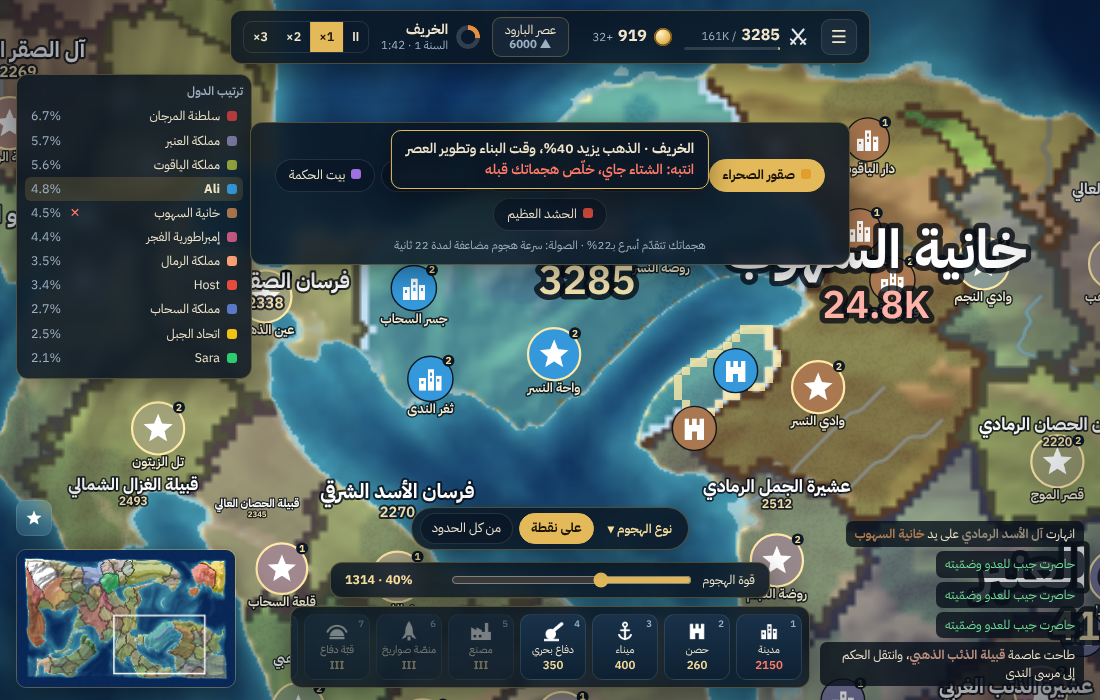
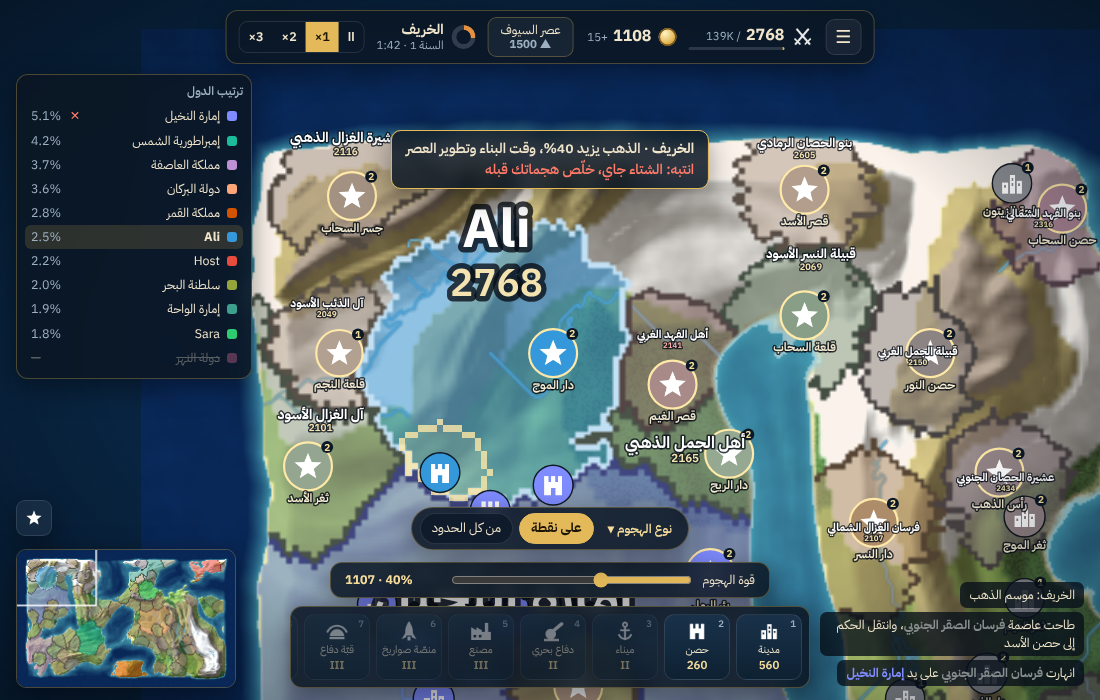
Bigger maps (about 30%) with more land on every world type
Claude-Session: https://claude.ai/code/session_01DE77Q6PVtjTWn3qCBTcsws

diff --git a/dist/sijal-mobile.html b/dist/sijal-mobile.html
@@ -400,7 +400,7 @@ h3{font-size:13px;color:var(--dim);font-weight:600;margin-bottom:6px}
 </div>
 <script>
 window.SIJAL_MODE='mobile';(function(){"use strict";
-const BUILD_ID='6b71f780f7';
+const BUILD_ID='554911884e';
 // ── SIJAL · core: constants, utilities, shared data ──
 const TPS=10,SEASON_LEN=450;
 // terrain ids: 0 deep, 1 shallow, 2 plains, 3 forest, 4 desert, 5 hills, 6 mountain, 7 snow
@@ -486,7 +486,7 @@ function genMap(o){
     if(T==='highlands')e=Math.abs(e)*1.25+fbm(u*6+3,v*6+9,4)*.25;else if(T==='flat')e*=.3;
     elev[i]=T==='flat'||T==='highlands'?e:e-(1-smooth(0,.09,ed))*1.5;moist[i]=fb2(u*3+40,v*3+17,4);
   }
-  const ratio={continents:.47,pangaea:.52,islands:.34,inner:.46,twin:.46,shores:.46,crescent:.4,straits:.5,lakes:.7,flat:1,highlands:1}[T]||.45;
+  const ratio={continents:.54,pangaea:.6,islands:.42,inner:.53,twin:.53,shores:.53,crescent:.47,straits:.56,lakes:.75,flat:1,highlands:1}[T]||.45;
   const srt=Float32Array.from(elev).sort(),L0=Math.min(N-1,Math.floor(N*(1-ratio))),sea=srt[L0]-(ratio>=1?1e-6:0),LN=N-L0;
   // no-sea worlds: flat ground has no hills at all; highlands are half hills, a fifth peaks
   const HQ=T==='flat'?[2,2]:T==='highlands'?[.55,.88]:[.74,.9],hHill=srt[Math.min(N-1,L0+Math.floor(LN*HQ[0]))]-sea+(T==='flat'?1e9:0),hMnt=srt[Math.min(N-1,L0+Math.floor(LN*HQ[1]))]-sea+(T==='flat'?1e9:0),hmax=srt[N-1]-sea;
@@ -1855,7 +1855,7 @@ TX.en.help[8]=['The road to victory','Hold 99% of the world\'s land. Every realm
 TX.en.dInfo[2]=['Goal: the fastest win','Hold 99% of the land as fast as you can. Your best time today is saved; try to beat it.'];
 // update log: newest first, the game shows at most ten entries
 const LOG=[
- {v:'3.5',d:'2026-11-19',ar:['⚖ توازن جديد للعبة: الجنود يزيدون بشكل واقعي (حوالي 30 ألف بعد دقيقتين بدل ما توصل مليون)، والقيم يطول 15 لين 25 دقيقة','💰 المباني صارت أغلى: كل مبنى جديد من نفس النوع أغلى من اللي قبله بحوالي 40٪، والعصور أغلى','🏙 المدن المحايدة في الخرائط صارت أقل، وأيقونات المدن والمباني صارت أكبر بكثير','🛡 دائرة الحصن والقبة والدفاع البحري صارت ما تتعدى حدودك، ولها خط واضح على طرفها','🤝 علامة التحالف تطلع جنب اسم أي دولة متحالف معها','📏 مدى كل المباني صار أكبر، والمسافة بين المباني أكبر عشان ما تتراكب، وأرضك أول ما تبدأ صارت تقريباً 3 أضعاف','🏕 القبائل الصغيرة صارت تهجم على طول بكل جنودها وتخلي 2000 بس، فتكبر بسرعة من أول القيم'],en:['⚖ New balance: troops grow realistically (about 30K after two minutes instead of reaching a million), and a match lasts 15 to 25 minutes','💰 Buildings cost more: each new one of a kind costs about 40% more than the last, and ages cost more','🏙 Fewer neutral cities on the maps, and bigger city and building icons','🛡 Fort, dome and coastal gun areas stop at your border, with a clear outline on their edge','🤝 A handshake shows next to the name of every realm you are allied with','📏 Every building has a larger range, buildings sit further apart so they do not overlap, and your starting land is about three times bigger','🏕 Small tribes now attack right away with everything above a 2000-man reserve, so they grow fast from the start']},
+ {v:'3.5',d:'2026-11-19',ar:['⚖ توازن جديد للعبة: الجنود يزيدون بشكل واقعي (حوالي 30 ألف بعد دقيقتين بدل ما توصل مليون)، والقيم يطول 15 لين 25 دقيقة','💰 المباني صارت أغلى: كل مبنى جديد من نفس النوع أغلى من اللي قبله بحوالي 40٪، والعصور أغلى','🏙 المدن المحايدة في الخرائط صارت أقل، وأيقونات المدن والمباني صارت أكبر بكثير','🛡 دائرة الحصن والقبة والدفاع البحري صارت ما تتعدى حدودك، ولها خط واضح على طرفها','🤝 علامة التحالف تطلع جنب اسم أي دولة متحالف معها','🗺 كل الخرائط صارت أكبر بحوالي 30٪ والبحر أقل','📏 مدى كل المباني صار أكبر، والمسافة بين المباني أكبر عشان ما تتراكب، وأرضك أول ما تبدأ صارت تقريباً 3 أضعاف','🏕 القبائل الصغيرة صارت تهجم على طول بكل جنودها وتخلي 2000 بس، فتكبر بسرعة من أول القيم'],en:['⚖ New balance: troops grow realistically (about 30K after two minutes instead of reaching a million), and a match lasts 15 to 25 minutes','💰 Buildings cost more: each new one of a kind costs about 40% more than the last, and ages cost more','🏙 Fewer neutral cities on the maps, and bigger city and building icons','🛡 Fort, dome and coastal gun areas stop at your border, with a clear outline on their edge','🤝 A handshake shows next to the name of every realm you are allied with','🗺 Every map is about 30% bigger with less sea','📏 Every building has a larger range, buildings sit further apart so they do not overlap, and your starting land is about three times bigger','🏕 Small tribes now attack right away with everything above a 2000-man reserve, so they grow fast from the start']},
  {v:'3.4',d:'2026-11-19',ar:['🔢 رقم الجنود صار يمشي ورا خط الهجوم ويتحرك مع الجبهة كاملة، يميل مع الحدود ويكبر لما الجبهة تكبر','🌾 رقم الجنود ما يطلع لما تهجم على أرض فاضية، بس لما تهجم على دولة'],en:['🔢 The troop count now rides behind the attack line and moves with the whole front, tilting along the border and growing with it','🌾 No troop count when you attack empty land, only against realms']},
  {v:'3.3',d:'2026-11-19',ar:['🟢 أي أرض فاضية تحاصرها بأرضك من كل الجهات تنضم لك تلقائياً مهما كان حجمها، وتتعبّى من الأطراف للنص بأنميشن','🎯 القائمة الدائرية صارت أوضح وأجمل: تحت كل زر كلمة تشرحه (هجوم، بحري، البطاقة، صواريخ، كل الحدود)','🖱 كلك يمين في الكمبيوتر ما يطلّع قائمة المتصفح فوق الدائرة','🗡 السيفين لما تقضي على دولة صاروا أصغر'],en:['🟢 Any empty land you ring on every side joins you automatically whatever its size, filling from the edges inward','🎯 A clearer, nicer radial menu: a word under each button (Attack, By sea, Card, Missiles, All borders)','🖱 Right click on PC no longer opens the browser menu over the circle','🗡 Smaller crossed swords when you wipe out a realm']},
  {v:'3.2',d:'2026-11-19',ar:['😡 البوتات الكبار صارت ترد عليك بإيموجي: لو هجمت عليها أو غدرت فيها أو أنهيت تحالف كانت تبيه، ولو رفضت لأنها ما تثق فيك، ولو أهديتها ذهب','💬 أسباب رفض السلام والتحالف صارت كثيرة وواقعية وتتغير كل مرة','🏗 كل المباني تنبني خلال 6 ثواني بدل 10','🔢 رقم جنود العدو على حدودك صار ثابت مثل رقمك','🎮 قائمة الجرافيكس توضح وش ضحّينا فيه بالمنخفض عشان السلاسة، ووش أضفنا بالعالي، والفصول باقية في كل المستويات'],en:['😡 Big bots now answer you with emojis: when you attack or betray them, end an alliance they wanted, refuse you for lack of trust, or receive your gold','💬 Many varied, realistic reasons when peace or alliance is refused','🏗 Every building finishes in 6 seconds instead of 10','🔢 The enemy troop count on your border is now as steady as yours','🎮 The graphics menu explains what Low gives up for smoothness and what High adds']},
@@ -2093,7 +2093,7 @@ let G=null,acc=0,lastTs=0;
 // online leaderboard (Firebase Realtime Database + anonymous sign-in); empty = turned off
 const LB_DB='https://sijal-fa367-default-rtdb.firebaseio.com',LB_KEY='AIzaSyABuacot7I8S6r-7bsTHbYgMWhQC7OHXi4';
 const SUGGEST_KEY='137b52a0-fd63-4170-99f2-83a421aef9f4';
-const $=s=>document.querySelector(s),BAR=['city','fort','port','coast','factory','silo','shield','rocket','nuke','doom','ult'],rankOf=p=>p.wins<=0?0:Math.min(21,Math.ceil(p.wins/25)),SIZES=[[320,200],[420,264],[540,340],[680,428]],BOTS=[6,10,14,18,23];
+const $=s=>document.querySelector(s),BAR=['city','fort','port','coast','factory','silo','shield','rocket','nuke','doom','ult'],rankOf=p=>p.wins<=0?0:Math.min(21,Math.ceil(p.wins/25)),SIZES=[[420,264],[540,340],[680,428],[840,528]],BOTS=[6,10,14,18,23];
 
 // ── profile (per-device convenience only) ──
 function loadProf(){

diff --git a/dist/sijal-pc.html b/dist/sijal-pc.html
@@ -400,7 +400,7 @@ h3{font-size:13px;color:var(--dim);font-weight:600;margin-bottom:6px}
 </div>
 <script>
 window.SIJAL_MODE='pc';(function(){"use strict";
-const BUILD_ID='6b71f780f7';
+const BUILD_ID='554911884e';
 // ── SIJAL · core: constants, utilities, shared data ──
 const TPS=10,SEASON_LEN=450;
 // terrain ids: 0 deep, 1 shallow, 2 plains, 3 forest, 4 desert, 5 hills, 6 mountain, 7 snow
@@ -486,7 +486,7 @@ function genMap(o){
     if(T==='highlands')e=Math.abs(e)*1.25+fbm(u*6+3,v*6+9,4)*.25;else if(T==='flat')e*=.3;
     elev[i]=T==='flat'||T==='highlands'?e:e-(1-smooth(0,.09,ed))*1.5;moist[i]=fb2(u*3+40,v*3+17,4);
   }
-  const ratio={continents:.47,pangaea:.52,islands:.34,inner:.46,twin:.46,shores:.46,crescent:.4,straits:.5,lakes:.7,flat:1,highlands:1}[T]||.45;
+  const ratio={continents:.54,pangaea:.6,islands:.42,inner:.53,twin:.53,shores:.53,crescent:.47,straits:.56,lakes:.75,flat:1,highlands:1}[T]||.45;
   const srt=Float32Array.from(elev).sort(),L0=Math.min(N-1,Math.floor(N*(1-ratio))),sea=srt[L0]-(ratio>=1?1e-6:0),LN=N-L0;
   // no-sea worlds: flat ground has no hills at all; highlands are half hills, a fifth peaks
   const HQ=T==='flat'?[2,2]:T==='highlands'?[.55,.88]:[.74,.9],hHill=srt[Math.min(N-1,L0+Math.floor(LN*HQ[0]))]-sea+(T==='flat'?1e9:0),hMnt=srt[Math.min(N-1,L0+Math.floor(LN*HQ[1]))]-sea+(T==='flat'?1e9:0),hmax=srt[N-1]-sea;
@@ -1855,7 +1855,7 @@ TX.en.help[8]=['The road to victory','Hold 99% of the world\'s land. Every realm
 TX.en.dInfo[2]=['Goal: the fastest win','Hold 99% of the land as fast as you can. Your best time today is saved; try to beat it.'];
 // update log: newest first, the game shows at most ten entries
 const LOG=[
- {v:'3.5',d:'2026-11-19',ar:['⚖ توازن جديد للعبة: الجنود يزيدون بشكل واقعي (حوالي 30 ألف بعد دقيقتين بدل ما توصل مليون)، والقيم يطول 15 لين 25 دقيقة','💰 المباني صارت أغلى: كل مبنى جديد من نفس النوع أغلى من اللي قبله بحوالي 40٪، والعصور أغلى','🏙 المدن المحايدة في الخرائط صارت أقل، وأيقونات المدن والمباني صارت أكبر بكثير','🛡 دائرة الحصن والقبة والدفاع البحري صارت ما تتعدى حدودك، ولها خط واضح على طرفها','🤝 علامة التحالف تطلع جنب اسم أي دولة متحالف معها','📏 مدى كل المباني صار أكبر، والمسافة بين المباني أكبر عشان ما تتراكب، وأرضك أول ما تبدأ صارت تقريباً 3 أضعاف','🏕 القبائل الصغيرة صارت تهجم على طول بكل جنودها وتخلي 2000 بس، فتكبر بسرعة من أول القيم'],en:['⚖ New balance: troops grow realistically (about 30K after two minutes instead of reaching a million), and a match lasts 15 to 25 minutes','💰 Buildings cost more: each new one of a kind costs about 40% more than the last, and ages cost more','🏙 Fewer neutral cities on the maps, and bigger city and building icons','🛡 Fort, dome and coastal gun areas stop at your border, with a clear outline on their edge','🤝 A handshake shows next to the name of every realm you are allied with','📏 Every building has a larger range, buildings sit further apart so they do not overlap, and your starting land is about three times bigger','🏕 Small tribes now attack right away with everything above a 2000-man reserve, so they grow fast from the start']},
+ {v:'3.5',d:'2026-11-19',ar:['⚖ توازن جديد للعبة: الجنود يزيدون بشكل واقعي (حوالي 30 ألف بعد دقيقتين بدل ما توصل مليون)، والقيم يطول 15 لين 25 دقيقة','💰 المباني صارت أغلى: كل مبنى جديد من نفس النوع أغلى من اللي قبله بحوالي 40٪، والعصور أغلى','🏙 المدن المحايدة في الخرائط صارت أقل، وأيقونات المدن والمباني صارت أكبر بكثير','🛡 دائرة الحصن والقبة والدفاع البحري صارت ما تتعدى حدودك، ولها خط واضح على طرفها','🤝 علامة التحالف تطلع جنب اسم أي دولة متحالف معها','🗺 كل الخرائط صارت أكبر بحوالي 30٪ والبحر أقل','📏 مدى كل المباني صار أكبر، والمسافة بين المباني أكبر عشان ما تتراكب، وأرضك أول ما تبدأ صارت تقريباً 3 أضعاف','🏕 القبائل الصغيرة صارت تهجم على طول بكل جنودها وتخلي 2000 بس، فتكبر بسرعة من أول القيم'],en:['⚖ New balance: troops grow realistically (about 30K after two minutes instead of reaching a million), and a match lasts 15 to 25 minutes','💰 Buildings cost more: each new one of a kind costs about 40% more than the last, and ages cost more','🏙 Fewer neutral cities on the maps, and bigger city and building icons','🛡 Fort, dome and coastal gun areas stop at your border, with a clear outline on their edge','🤝 A handshake shows next to the name of every realm you are allied with','🗺 Every map is about 30% bigger with less sea','📏 Every building has a larger range, buildings sit further apart so they do not overlap, and your starting land is about three times bigger','🏕 Small tribes now attack right away with everything above a 2000-man reserve, so they grow fast from the start']},
  {v:'3.4',d:'2026-11-19',ar:['🔢 رقم الجنود صار يمشي ورا خط الهجوم ويتحرك مع الجبهة كاملة، يميل مع الحدود ويكبر لما الجبهة تكبر','🌾 رقم الجنود ما يطلع لما تهجم على أرض فاضية، بس لما تهجم على دولة'],en:['🔢 The troop count now rides behind the attack line and moves with the whole front, tilting along the border and growing with it','🌾 No troop count when you attack empty land, only against realms']},
  {v:'3.3',d:'2026-11-19',ar:['🟢 أي أرض فاضية تحاصرها بأرضك من كل الجهات تنضم لك تلقائياً مهما كان حجمها، وتتعبّى من الأطراف للنص بأنميشن','🎯 القائمة الدائرية صارت أوضح وأجمل: تحت كل زر كلمة تشرحه (هجوم، بحري، البطاقة، صواريخ، كل الحدود)','🖱 كلك يمين في الكمبيوتر ما يطلّع قائمة المتصفح فوق الدائرة','🗡 السيفين لما تقضي على دولة صاروا أصغر'],en:['🟢 Any empty land you ring on every side joins you automatically whatever its size, filling from the edges inward','🎯 A clearer, nicer radial menu: a word under each button (Attack, By sea, Card, Missiles, All borders)','🖱 Right click on PC no longer opens the browser menu over the circle','🗡 Smaller crossed swords when you wipe out a realm']},
  {v:'3.2',d:'2026-11-19',ar:['😡 البوتات الكبار صارت ترد عليك بإيموجي: لو هجمت عليها أو غدرت فيها أو أنهيت تحالف كانت تبيه، ولو رفضت لأنها ما تثق فيك، ولو أهديتها ذهب','💬 أسباب رفض السلام والتحالف صارت كثيرة وواقعية وتتغير كل مرة','🏗 كل المباني تنبني خلال 6 ثواني بدل 10','🔢 رقم جنود العدو على حدودك صار ثابت مثل رقمك','🎮 قائمة الجرافيكس توضح وش ضحّينا فيه بالمنخفض عشان السلاسة، ووش أضفنا بالعالي، والفصول باقية في كل المستويات'],en:['😡 Big bots now answer you with emojis: when you attack or betray them, end an alliance they wanted, refuse you for lack of trust, or receive your gold','💬 Many varied, realistic reasons when peace or alliance is refused','🏗 Every building finishes in 6 seconds instead of 10','🔢 The enemy troop count on your border is now as steady as yours','🎮 The graphics menu explains what Low gives up for smoothness and what High adds']},
@@ -2093,7 +2093,7 @@ let G=null,acc=0,lastTs=0;
 // online leaderboard (Firebase Realtime Database + anonymous sign-in); empty = turned off
 const LB_DB='https://sijal-fa367-default-rtdb.firebaseio.com',LB_KEY='AIzaSyABuacot7I8S6r-7bsTHbYgMWhQC7OHXi4';
 const SUGGEST_KEY='137b52a0-fd63-4170-99f2-83a421aef9f4';
-const $=s=>document.querySelector(s),BAR=['city','fort','port','coast','factory','silo','shield','rocket','nuke','doom','ult'],rankOf=p=>p.wins<=0?0:Math.min(21,Math.ceil(p.wins/25)),SIZES=[[320,200],[420,264],[540,340],[680,428]],BOTS=[6,10,14,18,23];
+const $=s=>document.querySelector(s),BAR=['city','fort','port','coast','factory','silo','shield','rocket','nuke','doom','ult'],rankOf=p=>p.wins<=0?0:Math.min(21,Math.ceil(p.wins/25)),SIZES=[[420,264],[540,340],[680,428],[840,528]],BOTS=[6,10,14,18,23];
 
 // ── profile (per-device convenience only) ──
 function loadProf(){

diff --git a/dist/sijal-artifact.html b/dist/sijal-artifact.html
@@ -390,7 +390,7 @@ h3{font-size:13px;color:var(--dim);font-weight:600;margin-bottom:6px}
 </div>
 <script>
 (function(){"use strict";
-const BUILD_ID='6b71f780f7';
+const BUILD_ID='554911884e';
 // ── SIJAL · core: constants, utilities, shared data ──
 const TPS=10,SEASON_LEN=450;
 // terrain ids: 0 deep, 1 shallow, 2 plains, 3 forest, 4 desert, 5 hills, 6 mountain, 7 snow
@@ -476,7 +476,7 @@ function genMap(o){
     if(T==='highlands')e=Math.abs(e)*1.25+fbm(u*6+3,v*6+9,4)*.25;else if(T==='flat')e*=.3;
     elev[i]=T==='flat'||T==='highlands'?e:e-(1-smooth(0,.09,ed))*1.5;moist[i]=fb2(u*3+40,v*3+17,4);
   }
-  const ratio={continents:.47,pangaea:.52,islands:.34,inner:.46,twin:.46,shores:.46,crescent:.4,straits:.5,lakes:.7,flat:1,highlands:1}[T]||.45;
+  const ratio={continents:.54,pangaea:.6,islands:.42,inner:.53,twin:.53,shores:.53,crescent:.47,straits:.56,lakes:.75,flat:1,highlands:1}[T]||.45;
   const srt=Float32Array.from(elev).sort(),L0=Math.min(N-1,Math.floor(N*(1-ratio))),sea=srt[L0]-(ratio>=1?1e-6:0),LN=N-L0;
   // no-sea worlds: flat ground has no hills at all; highlands are half hills, a fifth peaks
   const HQ=T==='flat'?[2,2]:T==='highlands'?[.55,.88]:[.74,.9],hHill=srt[Math.min(N-1,L0+Math.floor(LN*HQ[0]))]-sea+(T==='flat'?1e9:0),hMnt=srt[Math.min(N-1,L0+Math.floor(LN*HQ[1]))]-sea+(T==='flat'?1e9:0),hmax=srt[N-1]-sea;
@@ -1845,7 +1845,7 @@ TX.en.help[8]=['The road to victory','Hold 99% of the world\'s land. Every realm
 TX.en.dInfo[2]=['Goal: the fastest win','Hold 99% of the land as fast as you can. Your best time today is saved; try to beat it.'];
 // update log: newest first, the game shows at most ten entries
 const LOG=[
- {v:'3.5',d:'2026-11-19',ar:['⚖ توازن جديد للعبة: الجنود يزيدون بشكل واقعي (حوالي 30 ألف بعد دقيقتين بدل ما توصل مليون)، والقيم يطول 15 لين 25 دقيقة','💰 المباني صارت أغلى: كل مبنى جديد من نفس النوع أغلى من اللي قبله بحوالي 40٪، والعصور أغلى','🏙 المدن المحايدة في الخرائط صارت أقل، وأيقونات المدن والمباني صارت أكبر بكثير','🛡 دائرة الحصن والقبة والدفاع البحري صارت ما تتعدى حدودك، ولها خط واضح على طرفها','🤝 علامة التحالف تطلع جنب اسم أي دولة متحالف معها','📏 مدى كل المباني صار أكبر، والمسافة بين المباني أكبر عشان ما تتراكب، وأرضك أول ما تبدأ صارت تقريباً 3 أضعاف','🏕 القبائل الصغيرة صارت تهجم على طول بكل جنودها وتخلي 2000 بس، فتكبر بسرعة من أول القيم'],en:['⚖ New balance: troops grow realistically (about 30K after two minutes instead of reaching a million), and a match lasts 15 to 25 minutes','💰 Buildings cost more: each new one of a kind costs about 40% more than the last, and ages cost more','🏙 Fewer neutral cities on the maps, and bigger city and building icons','🛡 Fort, dome and coastal gun areas stop at your border, with a clear outline on their edge','🤝 A handshake shows next to the name of every realm you are allied with','📏 Every building has a larger range, buildings sit further apart so they do not overlap, and your starting land is about three times bigger','🏕 Small tribes now attack right away with everything above a 2000-man reserve, so they grow fast from the start']},
+ {v:'3.5',d:'2026-11-19',ar:['⚖ توازن جديد للعبة: الجنود يزيدون بشكل واقعي (حوالي 30 ألف بعد دقيقتين بدل ما توصل مليون)، والقيم يطول 15 لين 25 دقيقة','💰 المباني صارت أغلى: كل مبنى جديد من نفس النوع أغلى من اللي قبله بحوالي 40٪، والعصور أغلى','🏙 المدن المحايدة في الخرائط صارت أقل، وأيقونات المدن والمباني صارت أكبر بكثير','🛡 دائرة الحصن والقبة والدفاع البحري صارت ما تتعدى حدودك، ولها خط واضح على طرفها','🤝 علامة التحالف تطلع جنب اسم أي دولة متحالف معها','🗺 كل الخرائط صارت أكبر بحوالي 30٪ والبحر أقل','📏 مدى كل المباني صار أكبر، والمسافة بين المباني أكبر عشان ما تتراكب، وأرضك أول ما تبدأ صارت تقريباً 3 أضعاف','🏕 القبائل الصغيرة صارت تهجم على طول بكل جنودها وتخلي 2000 بس، فتكبر بسرعة من أول القيم'],en:['⚖ New balance: troops grow realistically (about 30K after two minutes instead of reaching a million), and a match lasts 15 to 25 minutes','💰 Buildings cost more: each new one of a kind costs about 40% more than the last, and ages cost more','🏙 Fewer neutral cities on the maps, and bigger city and building icons','🛡 Fort, dome and coastal gun areas stop at your border, with a clear outline on their edge','🤝 A handshake shows next to the name of every realm you are allied with','🗺 Every map is about 30% bigger with less sea','📏 Every building has a larger range, buildings sit further apart so they do not overlap, and your starting land is about three times bigger','🏕 Small tribes now attack right away with everything above a 2000-man reserve, so they grow fast from the start']},
  {v:'3.4',d:'2026-11-19',ar:['🔢 رقم الجنود صار يمشي ورا خط الهجوم ويتحرك مع الجبهة كاملة، يميل مع الحدود ويكبر لما الجبهة تكبر','🌾 رقم الجنود ما يطلع لما تهجم على أرض فاضية، بس لما تهجم على دولة'],en:['🔢 The troop count now rides behind the attack line and moves with the whole front, tilting along the border and growing with it','🌾 No troop count when you attack empty land, only against realms']},
  {v:'3.3',d:'2026-11-19',ar:['🟢 أي أرض فاضية تحاصرها بأرضك من كل الجهات تنضم لك تلقائياً مهما كان حجمها، وتتعبّى من الأطراف للنص بأنميشن','🎯 القائمة الدائرية صارت أوضح وأجمل: تحت كل زر كلمة تشرحه (هجوم، بحري، البطاقة، صواريخ، كل الحدود)','🖱 كلك يمين في الكمبيوتر ما يطلّع قائمة المتصفح فوق الدائرة','🗡 السيفين لما تقضي على دولة صاروا أصغر'],en:['🟢 Any empty land you ring on every side joins you automatically whatever its size, filling from the edges inward','🎯 A clearer, nicer radial menu: a word under each button (Attack, By sea, Card, Missiles, All borders)','🖱 Right click on PC no longer opens the browser menu over the circle','🗡 Smaller crossed swords when you wipe out a realm']},
  {v:'3.2',d:'2026-11-19',ar:['😡 البوتات الكبار صارت ترد عليك بإيموجي: لو هجمت عليها أو غدرت فيها أو أنهيت تحالف كانت تبيه، ولو رفضت لأنها ما تثق فيك، ولو أهديتها ذهب','💬 أسباب رفض السلام والتحالف صارت كثيرة وواقعية وتتغير كل مرة','🏗 كل المباني تنبني خلال 6 ثواني بدل 10','🔢 رقم جنود العدو على حدودك صار ثابت مثل رقمك','🎮 قائمة الجرافيكس توضح وش ضحّينا فيه بالمنخفض عشان السلاسة، ووش أضفنا بالعالي، والفصول باقية في كل المستويات'],en:['😡 Big bots now answer you with emojis: when you attack or betray them, end an alliance they wanted, refuse you for lack of trust, or receive your gold','💬 Many varied, realistic reasons when peace or alliance is refused','🏗 Every building finishes in 6 seconds instead of 10','🔢 The enemy troop count on your border is now as steady as yours','🎮 The graphics menu explains what Low gives up for smoothness and what High adds']},
@@ -2083,7 +2083,7 @@ let G=null,acc=0,lastTs=0;
 // online leaderboard (Firebase Realtime Database + anonymous sign-in); empty = turned off
 const LB_DB='https://sijal-fa367-default-rtdb.firebaseio.com',LB_KEY='AIzaSyABuacot7I8S6r-7bsTHbYgMWhQC7OHXi4';
 const SUGGEST_KEY='137b52a0-fd63-4170-99f2-83a421aef9f4';
-const $=s=>document.querySelector(s),BAR=['city','fort','port','coast','factory','silo','shield','rocket','nuke','doom','ult'],rankOf=p=>p.wins<=0?0:Math.min(21,Math.ceil(p.wins/25)),SIZES=[[320,200],[420,264],[540,340],[680,428]],BOTS=[6,10,14,18,23];
+const $=s=>document.querySelector(s),BAR=['city','fort','port','coast','factory','silo','shield','rocket','nuke','doom','ult'],rankOf=p=>p.wins<=0?0:Math.min(21,Math.ceil(p.wins/25)),SIZES=[[420,264],[540,340],[680,428],[840,528]],BOTS=[6,10,14,18,23];
 
 // ── profile (per-device convenience only) ──
 function loadProf(){

diff --git a/dist/sijal.html b/dist/sijal.html
@@ -400,7 +400,7 @@ h3{font-size:13px;color:var(--dim);font-weight:600;margin-bottom:6px}
 </div>
 <script>
 (function(){"use strict";
-const BUILD_ID='6b71f780f7';
+const BUILD_ID='554911884e';
 // ── SIJAL · core: constants, utilities, shared data ──
 const TPS=10,SEASON_LEN=450;
 // terrain ids: 0 deep, 1 shallow, 2 plains, 3 forest, 4 desert, 5 hills, 6 mountain, 7 snow
@@ -486,7 +486,7 @@ function genMap(o){
     if(T==='highlands')e=Math.abs(e)*1.25+fbm(u*6+3,v*6+9,4)*.25;else if(T==='flat')e*=.3;
     elev[i]=T==='flat'||T==='highlands'?e:e-(1-smooth(0,.09,ed))*1.5;moist[i]=fb2(u*3+40,v*3+17,4);
   }
-  const ratio={continents:.47,pangaea:.52,islands:.34,inner:.46,twin:.46,shores:.46,crescent:.4,straits:.5,lakes:.7,flat:1,highlands:1}[T]||.45;
+  const ratio={continents:.54,pangaea:.6,islands:.42,inner:.53,twin:.53,shores:.53,crescent:.47,straits:.56,lakes:.75,flat:1,highlands:1}[T]||.45;
   const srt=Float32Array.from(elev).sort(),L0=Math.min(N-1,Math.floor(N*(1-ratio))),sea=srt[L0]-(ratio>=1?1e-6:0),LN=N-L0;
   // no-sea worlds: flat ground has no hills at all; highlands are half hills, a fifth peaks
   const HQ=T==='flat'?[2,2]:T==='highlands'?[.55,.88]:[.74,.9],hHill=srt[Math.min(N-1,L0+Math.floor(LN*HQ[0]))]-sea+(T==='flat'?1e9:0),hMnt=srt[Math.min(N-1,L0+Math.floor(LN*HQ[1]))]-sea+(T==='flat'?1e9:0),hmax=srt[N-1]-sea;
@@ -1855,7 +1855,7 @@ TX.en.help[8]=['The road to victory','Hold 99% of the world\'s land. Every realm
 TX.en.dInfo[2]=['Goal: the fastest win','Hold 99% of the land as fast as you can. Your best time today is saved; try to beat it.'];
 // update log: newest first, the game shows at most ten entries
 const LOG=[
- {v:'3.5',d:'2026-11-19',ar:['⚖ توازن جديد للعبة: الجنود يزيدون بشكل واقعي (حوالي 30 ألف بعد دقيقتين بدل ما توصل مليون)، والقيم يطول 15 لين 25 دقيقة','💰 المباني صارت أغلى: كل مبنى جديد من نفس النوع أغلى من اللي قبله بحوالي 40٪، والعصور أغلى','🏙 المدن المحايدة في الخرائط صارت أقل، وأيقونات المدن والمباني صارت أكبر بكثير','🛡 دائرة الحصن والقبة والدفاع البحري صارت ما تتعدى حدودك، ولها خط واضح على طرفها','🤝 علامة التحالف تطلع جنب اسم أي دولة متحالف معها','📏 مدى كل المباني صار أكبر، والمسافة بين المباني أكبر عشان ما تتراكب، وأرضك أول ما تبدأ صارت تقريباً 3 أضعاف','🏕 القبائل الصغيرة صارت تهجم على طول بكل جنودها وتخلي 2000 بس، فتكبر بسرعة من أول القيم'],en:['⚖ New balance: troops grow realistically (about 30K after two minutes instead of reaching a million), and a match lasts 15 to 25 minutes','💰 Buildings cost more: each new one of a kind costs about 40% more than the last, and ages cost more','🏙 Fewer neutral cities on the maps, and bigger city and building icons','🛡 Fort, dome and coastal gun areas stop at your border, with a clear outline on their edge','🤝 A handshake shows next to the name of every realm you are allied with','📏 Every building has a larger range, buildings sit further apart so they do not overlap, and your starting land is about three times bigger','🏕 Small tribes now attack right away with everything above a 2000-man reserve, so they grow fast from the start']},
+ {v:'3.5',d:'2026-11-19',ar:['⚖ توازن جديد للعبة: الجنود يزيدون بشكل واقعي (حوالي 30 ألف بعد دقيقتين بدل ما توصل مليون)، والقيم يطول 15 لين 25 دقيقة','💰 المباني صارت أغلى: كل مبنى جديد من نفس النوع أغلى من اللي قبله بحوالي 40٪، والعصور أغلى','🏙 المدن المحايدة في الخرائط صارت أقل، وأيقونات المدن والمباني صارت أكبر بكثير','🛡 دائرة الحصن والقبة والدفاع البحري صارت ما تتعدى حدودك، ولها خط واضح على طرفها','🤝 علامة التحالف تطلع جنب اسم أي دولة متحالف معها','🗺 كل الخرائط صارت أكبر بحوالي 30٪ والبحر أقل','📏 مدى كل المباني صار أكبر، والمسافة بين المباني أكبر عشان ما تتراكب، وأرضك أول ما تبدأ صارت تقريباً 3 أضعاف','🏕 القبائل الصغيرة صارت تهجم على طول بكل جنودها وتخلي 2000 بس، فتكبر بسرعة من أول القيم'],en:['⚖ New balance: troops grow realistically (about 30K after two minutes instead of reaching a million), and a match lasts 15 to 25 minutes','💰 Buildings cost more: each new one of a kind costs about 40% more than the last, and ages cost more','🏙 Fewer neutral cities on the maps, and bigger city and building icons','🛡 Fort, dome and coastal gun areas stop at your border, with a clear outline on their edge','🤝 A handshake shows next to the name of every realm you are allied with','🗺 Every map is about 30% bigger with less sea','📏 Every building has a larger range, buildings sit further apart so they do not overlap, and your starting land is about three times bigger','🏕 Small tribes now attack right away with everything above a 2000-man reserve, so they grow fast from the start']},
  {v:'3.4',d:'2026-11-19',ar:['🔢 رقم الجنود صار يمشي ورا خط الهجوم ويتحرك مع الجبهة كاملة، يميل مع الحدود ويكبر لما الجبهة تكبر','🌾 رقم الجنود ما يطلع لما تهجم على أرض فاضية، بس لما تهجم على دولة'],en:['🔢 The troop count now rides behind the attack line and moves with the whole front, tilting along the border and growing with it','🌾 No troop count when you attack empty land, only against realms']},
  {v:'3.3',d:'2026-11-19',ar:['🟢 أي أرض فاضية تحاصرها بأرضك من كل الجهات تنضم لك تلقائياً مهما كان حجمها، وتتعبّى من الأطراف للنص بأنميشن','🎯 القائمة الدائرية صارت أوضح وأجمل: تحت كل زر كلمة تشرحه (هجوم، بحري، البطاقة، صواريخ، كل الحدود)','🖱 كلك يمين في الكمبيوتر ما يطلّع قائمة المتصفح فوق الدائرة','🗡 السيفين لما تقضي على دولة صاروا أصغر'],en:['🟢 Any empty land you ring on every side joins you automatically whatever its size, filling from the edges inward','🎯 A clearer, nicer radial menu: a word under each button (Attack, By sea, Card, Missiles, All borders)','🖱 Right click on PC no longer opens the browser menu over the circle','🗡 Smaller crossed swords when you wipe out a realm']},
  {v:'3.2',d:'2026-11-19',ar:['😡 البوتات الكبار صارت ترد عليك بإيموجي: لو هجمت عليها أو غدرت فيها أو أنهيت تحالف كانت تبيه، ولو رفضت لأنها ما تثق فيك، ولو أهديتها ذهب','💬 أسباب رفض السلام والتحالف صارت كثيرة وواقعية وتتغير كل مرة','🏗 كل المباني تنبني خلال 6 ثواني بدل 10','🔢 رقم جنود العدو على حدودك صار ثابت مثل رقمك','🎮 قائمة الجرافيكس توضح وش ضحّينا فيه بالمنخفض عشان السلاسة، ووش أضفنا بالعالي، والفصول باقية في كل المستويات'],en:['😡 Big bots now answer you with emojis: when you attack or betray them, end an alliance they wanted, refuse you for lack of trust, or receive your gold','💬 Many varied, realistic reasons when peace or alliance is refused','🏗 Every building finishes in 6 seconds instead of 10','🔢 The enemy troop count on your border is now as steady as yours','🎮 The graphics menu explains what Low gives up for smoothness and what High adds']},
@@ -2093,7 +2093,7 @@ let G=null,acc=0,lastTs=0;
 // online leaderboard (Firebase Realtime Database + anonymous sign-in); empty = turned off
 const LB_DB='https://sijal-fa367-default-rtdb.firebaseio.com',LB_KEY='AIzaSyABuacot7I8S6r-7bsTHbYgMWhQC7OHXi4';
 const SUGGEST_KEY='137b52a0-fd63-4170-99f2-83a421aef9f4';
-const $=s=>document.querySelector(s),BAR=['city','fort','port','coast','factory','silo','shield','rocket','nuke','doom','ult'],rankOf=p=>p.wins<=0?0:Math.min(21,Math.ceil(p.wins/25)),SIZES=[[320,200],[420,264],[540,340],[680,428]],BOTS=[6,10,14,18,23];
+const $=s=>document.querySelector(s),BAR=['city','fort','port','coast','factory','silo','shield','rocket','nuke','doom','ult'],rankOf=p=>p.wins<=0?0:Math.min(21,Math.ceil(p.wins/25)),SIZES=[[420,264],[540,340],[680,428],[840,528]],BOTS=[6,10,14,18,23];
 
 // ── profile (per-device convenience only) ──
 function loadProf(){

diff --git a/dist/site/index.html b/dist/site/index.html
@@ -413,7 +413,7 @@ h3{font-size:13px;color:var(--dim);font-weight:600;margin-bottom:6px}
 </div>
 <script>
 (function(){"use strict";
-const BUILD_ID='6b71f780f7';
+const BUILD_ID='554911884e';
 // ── SIJAL · core: constants, utilities, shared data ──
 const TPS=10,SEASON_LEN=450;
 // terrain ids: 0 deep, 1 shallow, 2 plains, 3 forest, 4 desert, 5 hills, 6 mountain, 7 snow
@@ -499,7 +499,7 @@ function genMap(o){
     if(T==='highlands')e=Math.abs(e)*1.25+fbm(u*6+3,v*6+9,4)*.25;else if(T==='flat')e*=.3;
     elev[i]=T==='flat'||T==='highlands'?e:e-(1-smooth(0,.09,ed))*1.5;moist[i]=fb2(u*3+40,v*3+17,4);
   }
-  const ratio={continents:.47,pangaea:.52,islands:.34,inner:.46,twin:.46,shores:.46,crescent:.4,straits:.5,lakes:.7,flat:1,highlands:1}[T]||.45;
+  const ratio={continents:.54,pangaea:.6,islands:.42,inner:.53,twin:.53,shores:.53,crescent:.47,straits:.56,lakes:.75,flat:1,highlands:1}[T]||.45;
   const srt=Float32Array.from(elev).sort(),L0=Math.min(N-1,Math.floor(N*(1-ratio))),sea=srt[L0]-(ratio>=1?1e-6:0),LN=N-L0;
   // no-sea worlds: flat ground has no hills at all; highlands are half hills, a fifth peaks
   const HQ=T==='flat'?[2,2]:T==='highlands'?[.55,.88]:[.74,.9],hHill=srt[Math.min(N-1,L0+Math.floor(LN*HQ[0]))]-sea+(T==='flat'?1e9:0),hMnt=srt[Math.min(N-1,L0+Math.floor(LN*HQ[1]))]-sea+(T==='flat'?1e9:0),hmax=srt[N-1]-sea;
@@ -1868,7 +1868,7 @@ TX.en.help[8]=['The road to victory','Hold 99% of the world\'s land. Every realm
 TX.en.dInfo[2]=['Goal: the fastest win','Hold 99% of the land as fast as you can. Your best time today is saved; try to beat it.'];
 // update log: newest first, the game shows at most ten entries
 const LOG=[
- {v:'3.5',d:'2026-11-19',ar:['⚖ توازن جديد للعبة: الجنود يزيدون بشكل واقعي (حوالي 30 ألف بعد دقيقتين بدل ما توصل مليون)، والقيم يطول 15 لين 25 دقيقة','💰 المباني صارت أغلى: كل مبنى جديد من نفس النوع أغلى من اللي قبله بحوالي 40٪، والعصور أغلى','🏙 المدن المحايدة في الخرائط صارت أقل، وأيقونات المدن والمباني صارت أكبر بكثير','🛡 دائرة الحصن والقبة والدفاع البحري صارت ما تتعدى حدودك، ولها خط واضح على طرفها','🤝 علامة التحالف تطلع جنب اسم أي دولة متحالف معها','📏 مدى كل المباني صار أكبر، والمسافة بين المباني أكبر عشان ما تتراكب، وأرضك أول ما تبدأ صارت تقريباً 3 أضعاف','🏕 القبائل الصغيرة صارت تهجم على طول بكل جنودها وتخلي 2000 بس، فتكبر بسرعة من أول القيم'],en:['⚖ New balance: troops grow realistically (about 30K after two minutes instead of reaching a million), and a match lasts 15 to 25 minutes','💰 Buildings cost more: each new one of a kind costs about 40% more than the last, and ages cost more','🏙 Fewer neutral cities on the maps, and bigger city and building icons','🛡 Fort, dome and coastal gun areas stop at your border, with a clear outline on their edge','🤝 A handshake shows next to the name of every realm you are allied with','📏 Every building has a larger range, buildings sit further apart so they do not overlap, and your starting land is about three times bigger','🏕 Small tribes now attack right away with everything above a 2000-man reserve, so they grow fast from the start']},
+ {v:'3.5',d:'2026-11-19',ar:['⚖ توازن جديد للعبة: الجنود يزيدون بشكل واقعي (حوالي 30 ألف بعد دقيقتين بدل ما توصل مليون)، والقيم يطول 15 لين 25 دقيقة','💰 المباني صارت أغلى: كل مبنى جديد من نفس النوع أغلى من اللي قبله بحوالي 40٪، والعصور أغلى','🏙 المدن المحايدة في الخرائط صارت أقل، وأيقونات المدن والمباني صارت أكبر بكثير','🛡 دائرة الحصن والقبة والدفاع البحري صارت ما تتعدى حدودك، ولها خط واضح على طرفها','🤝 علامة التحالف تطلع جنب اسم أي دولة متحالف معها','🗺 كل الخرائط صارت أكبر بحوالي 30٪ والبحر أقل','📏 مدى كل المباني صار أكبر، والمسافة بين المباني أكبر عشان ما تتراكب، وأرضك أول ما تبدأ صارت تقريباً 3 أضعاف','🏕 القبائل الصغيرة صارت تهجم على طول بكل جنودها وتخلي 2000 بس، فتكبر بسرعة من أول القيم'],en:['⚖ New balance: troops grow realistically (about 30K after two minutes instead of reaching a million), and a match lasts 15 to 25 minutes','💰 Buildings cost more: each new one of a kind costs about 40% more than the last, and ages cost more','🏙 Fewer neutral cities on the maps, and bigger city and building icons','🛡 Fort, dome and coastal gun areas stop at your border, with a clear outline on their edge','🤝 A handshake shows next to the name of every realm you are allied with','🗺 Every map is about 30% bigger with less sea','📏 Every building has a larger range, buildings sit further apart so they do not overlap, and your starting land is about three times bigger','🏕 Small tribes now attack right away with everything above a 2000-man reserve, so they grow fast from the start']},
  {v:'3.4',d:'2026-11-19',ar:['🔢 رقم الجنود صار يمشي ورا خط الهجوم ويتحرك مع الجبهة كاملة، يميل مع الحدود ويكبر لما الجبهة تكبر','🌾 رقم الجنود ما يطلع لما تهجم على أرض فاضية، بس لما تهجم على دولة'],en:['🔢 The troop count now rides behind the attack line and moves with the whole front, tilting along the border and growing with it','🌾 No troop count when you attack empty land, only against realms']},
  {v:'3.3',d:'2026-11-19',ar:['🟢 أي أرض فاضية تحاصرها بأرضك من كل الجهات تنضم لك تلقائياً مهما كان حجمها، وتتعبّى من الأطراف للنص بأنميشن','🎯 القائمة الدائرية صارت أوضح وأجمل: تحت كل زر كلمة تشرحه (هجوم، بحري، البطاقة، صواريخ، كل الحدود)','🖱 كلك يمين في الكمبيوتر ما يطلّع قائمة المتصفح فوق الدائرة','🗡 السيفين لما تقضي على دولة صاروا أصغر'],en:['🟢 Any empty land you ring on every side joins you automatically whatever its size, filling from the edges inward','🎯 A clearer, nicer radial menu: a word under each button (Attack, By sea, Card, Missiles, All borders)','🖱 Right click on PC no longer opens the browser menu over the circle','🗡 Smaller crossed swords when you wipe out a realm']},
  {v:'3.2',d:'2026-11-19',ar:['😡 البوتات الكبار صارت ترد عليك بإيموجي: لو هجمت عليها أو غدرت فيها أو أنهيت تحالف كانت تبيه، ولو رفضت لأنها ما تثق فيك، ولو أهديتها ذهب','💬 أسباب رفض السلام والتحالف صارت كثيرة وواقعية وتتغير كل مرة','🏗 كل المباني تنبني خلال 6 ثواني بدل 10','🔢 رقم جنود العدو على حدودك صار ثابت مثل رقمك','🎮 قائمة الجرافيكس توضح وش ضحّينا فيه بالمنخفض عشان السلاسة، ووش أضفنا بالعالي، والفصول باقية في كل المستويات'],en:['😡 Big bots now answer you with emojis: when you attack or betray them, end an alliance they wanted, refuse you for lack of trust, or receive your gold','💬 Many varied, realistic reasons when peace or alliance is refused','🏗 Every building finishes in 6 seconds instead of 10','🔢 The enemy troop count on your border is now as steady as yours','🎮 The graphics menu explains what Low gives up for smoothness and what High adds']},
@@ -2106,7 +2106,7 @@ let G=null,acc=0,lastTs=0;
 // online leaderboard (Firebase Realtime Database + anonymous sign-in); empty = turned off
 const LB_DB='https://sijal-fa367-default-rtdb.firebaseio.com',LB_KEY='AIzaSyABuacot7I8S6r-7bsTHbYgMWhQC7OHXi4';
 const SUGGEST_KEY='137b52a0-fd63-4170-99f2-83a421aef9f4';
-const $=s=>document.querySelector(s),BAR=['city','fort','port','coast','factory','silo','shield','rocket','nuke','doom','ult'],rankOf=p=>p.wins<=0?0:Math.min(21,Math.ceil(p.wins/25)),SIZES=[[320,200],[420,264],[540,340],[680,428]],BOTS=[6,10,14,18,23];
+const $=s=>document.querySelector(s),BAR=['city','fort','port','coast','factory','silo','shield','rocket','nuke','doom','ult'],rankOf=p=>p.wins<=0?0:Math.min(21,Math.ceil(p.wins/25)),SIZES=[[420,264],[540,340],[680,428],[840,528]],BOTS=[6,10,14,18,23];
 
 // ── profile (per-device convenience only) ──
 function loadProf(){

diff --git a/src/i18n.js b/src/i18n.js
@@ -158,7 +158,7 @@ TX.en.help[8]=['The road to victory','Hold 99% of the world\'s land. Every realm
 TX.en.dInfo[2]=['Goal: the fastest win','Hold 99% of the land as fast as you can. Your best time today is saved; try to beat it.'];
 // update log: newest first, the game shows at most ten entries
 const LOG=[
- {v:'3.5',d:'2026-11-19',ar:['⚖ توازن جديد للعبة: الجنود يزيدون بشكل واقعي (حوالي 30 ألف بعد دقيقتين بدل ما توصل مليون)، والقيم يطول 15 لين 25 دقيقة','💰 المباني صارت أغلى: كل مبنى جديد من نفس النوع أغلى من اللي قبله بحوالي 40٪، والعصور أغلى','🏙 المدن المحايدة في الخرائط صارت أقل، وأيقونات المدن والمباني صارت أكبر بكثير','🛡 دائرة الحصن والقبة والدفاع البحري صارت ما تتعدى حدودك، ولها خط واضح على طرفها','🤝 علامة التحالف تطلع جنب اسم أي دولة متحالف معها','📏 مدى كل المباني صار أكبر، والمسافة بين المباني أكبر عشان ما تتراكب، وأرضك أول ما تبدأ صارت تقريباً 3 أضعاف','🏕 القبائل الصغيرة صارت تهجم على طول بكل جنودها وتخلي 2000 بس، فتكبر بسرعة من أول القيم'],en:['⚖ New balance: troops grow realistically (about 30K after two minutes instead of reaching a million), and a match lasts 15 to 25 minutes','💰 Buildings cost more: each new one of a kind costs about 40% more than the last, and ages cost more','🏙 Fewer neutral cities on the maps, and bigger city and building icons','🛡 Fort, dome and coastal gun areas stop at your border, with a clear outline on their edge','🤝 A handshake shows next to the name of every realm you are allied with','📏 Every building has a larger range, buildings sit further apart so they do not overlap, and your starting land is about three times bigger','🏕 Small tribes now attack right away with everything above a 2000-man reserve, so they grow fast from the start']},
+ {v:'3.5',d:'2026-11-19',ar:['⚖ توازن جديد للعبة: الجنود يزيدون بشكل واقعي (حوالي 30 ألف بعد دقيقتين بدل ما توصل مليون)، والقيم يطول 15 لين 25 دقيقة','💰 المباني صارت أغلى: كل مبنى جديد من نفس النوع أغلى من اللي قبله بحوالي 40٪، والعصور أغلى','🏙 المدن المحايدة في الخرائط صارت أقل، وأيقونات المدن والمباني صارت أكبر بكثير','🛡 دائرة الحصن والقبة والدفاع البحري صارت ما تتعدى حدودك، ولها خط واضح على طرفها','🤝 علامة التحالف تطلع جنب اسم أي دولة متحالف معها','🗺 كل الخرائط صارت أكبر بحوالي 30٪ والبحر أقل','📏 مدى كل المباني صار أكبر، والمسافة بين المباني أكبر عشان ما تتراكب، وأرضك أول ما تبدأ صارت تقريباً 3 أضعاف','🏕 القبائل الصغيرة صارت تهجم على طول بكل جنودها وتخلي 2000 بس، فتكبر بسرعة من أول القيم'],en:['⚖ New balance: troops grow realistically (about 30K after two minutes instead of reaching a million), and a match lasts 15 to 25 minutes','💰 Buildings cost more: each new one of a kind costs about 40% more than the last, and ages cost more','🏙 Fewer neutral cities on the maps, and bigger city and building icons','🛡 Fort, dome and coastal gun areas stop at your border, with a clear outline on their edge','🤝 A handshake shows next to the name of every realm you are allied with','🗺 Every map is about 30% bigger with less sea','📏 Every building has a larger range, buildings sit further apart so they do not overlap, and your starting land is about three times bigger','🏕 Small tribes now attack right away with everything above a 2000-man reserve, so they grow fast from the start']},
  {v:'3.4',d:'2026-11-19',ar:['🔢 رقم الجنود صار يمشي ورا خط الهجوم ويتحرك مع الجبهة كاملة، يميل مع الحدود ويكبر لما الجبهة تكبر','🌾 رقم الجنود ما يطلع لما تهجم على أرض فاضية، بس لما تهجم على دولة'],en:['🔢 The troop count now rides behind the attack line and moves with the whole front, tilting along the border and growing with it','🌾 No troop count when you attack empty land, only against realms']},
  {v:'3.3',d:'2026-11-19',ar:['🟢 أي أرض فاضية تحاصرها بأرضك من كل الجهات تنضم لك تلقائياً مهما كان حجمها، وتتعبّى من الأطراف للنص بأنميشن','🎯 القائمة الدائرية صارت أوضح وأجمل: تحت كل زر كلمة تشرحه (هجوم، بحري، البطاقة، صواريخ، كل الحدود)','🖱 كلك يمين في الكمبيوتر ما يطلّع قائمة المتصفح فوق الدائرة','🗡 السيفين لما تقضي على دولة صاروا أصغر'],en:['🟢 Any empty land you ring on every side joins you automatically whatever its size, filling from the edges inward','🎯 A clearer, nicer radial menu: a word under each button (Attack, By sea, Card, Missiles, All borders)','🖱 Right click on PC no longer opens the browser menu over the circle','🗡 Smaller crossed swords when you wipe out a realm']},
  {v:'3.2',d:'2026-11-19',ar:['😡 البوتات الكبار صارت ترد عليك بإيموجي: لو هجمت عليها أو غدرت فيها أو أنهيت تحالف كانت تبيه، ولو رفضت لأنها ما تثق فيك، ولو أهديتها ذهب','💬 أسباب رفض السلام والتحالف صارت كثيرة وواقعية وتتغير كل مرة','🏗 كل المباني تنبني خلال 6 ثواني بدل 10','🔢 رقم جنود العدو على حدودك صار ثابت مثل رقمك','🎮 قائمة الجرافيكس توضح وش ضحّينا فيه بالمنخفض عشان السلاسة، ووش أضفنا بالعالي، والفصول باقية في كل المستويات'],en:['😡 Big bots now answer you with emojis: when you attack or betray them, end an alliance they wanted, refuse you for lack of trust, or receive your gold','💬 Many varied, realistic reasons when peace or alliance is refused','🏗 Every building finishes in 6 seconds instead of 10','🔢 The enemy troop count on your border is now as steady as yours','🎮 The graphics menu explains what Low gives up for smoothness and what High adds']},

diff --git a/src/map.js b/src/map.js
@@ -13,7 +13,7 @@ function genMap(o){
     if(T==='highlands')e=Math.abs(e)*1.25+fbm(u*6+3,v*6+9,4)*.25;else if(T==='flat')e*=.3;
     elev[i]=T==='flat'||T==='highlands'?e:e-(1-smooth(0,.09,ed))*1.5;moist[i]=fb2(u*3+40,v*3+17,4);
   }
-  const ratio={continents:.47,pangaea:.52,islands:.34,inner:.46,twin:.46,shores:.46,crescent:.4,straits:.5,lakes:.7,flat:1,highlands:1}[T]||.45;
+  const ratio={continents:.54,pangaea:.6,islands:.42,inner:.53,twin:.53,shores:.53,crescent:.47,straits:.56,lakes:.75,flat:1,highlands:1}[T]||.45;
   const srt=Float32Array.from(elev).sort(),L0=Math.min(N-1,Math.floor(N*(1-ratio))),sea=srt[L0]-(ratio>=1?1e-6:0),LN=N-L0;
   // no-sea worlds: flat ground has no hills at all; highlands are half hills, a fifth peaks
   const HQ=T==='flat'?[2,2]:T==='highlands'?[.55,.88]:[.74,.9],hHill=srt[Math.min(N-1,L0+Math.floor(LN*HQ[0]))]-sea+(T==='flat'?1e9:0),hMnt=srt[Math.min(N-1,L0+Math.floor(LN*HQ[1]))]-sea+(T==='flat'?1e9:0),hmax=srt[N-1]-sea;

diff --git a/src/ui.js b/src/ui.js
@@ -4,7 +4,7 @@ let G=null,acc=0,lastTs=0;
 // online leaderboard (Firebase Realtime Database + anonymous sign-in); empty = turned off
 const LB_DB='https://sijal-fa367-default-rtdb.firebaseio.com',LB_KEY='AIzaSyABuacot7I8S6r-7bsTHbYgMWhQC7OHXi4';
 const SUGGEST_KEY='137b52a0-fd63-4170-99f2-83a421aef9f4';
-const $=s=>document.querySelector(s),BAR=['city','fort','port','coast','factory','silo','shield','rocket','nuke','doom','ult'],rankOf=p=>p.wins<=0?0:Math.min(21,Math.ceil(p.wins/25)),SIZES=[[320,200],[420,264],[540,340],[680,428]],BOTS=[6,10,14,18,23];
+const $=s=>document.querySelector(s),BAR=['city','fort','port','coast','factory','silo','shield','rocket','nuke','doom','ult'],rankOf=p=>p.wins<=0?0:Math.min(21,Math.ceil(p.wins/25)),SIZES=[[420,264],[540,340],[680,428],[840,528]],BOTS=[6,10,14,18,23];
 
 // ── profile (per-device convenience only) ──
 function loadProf(){
